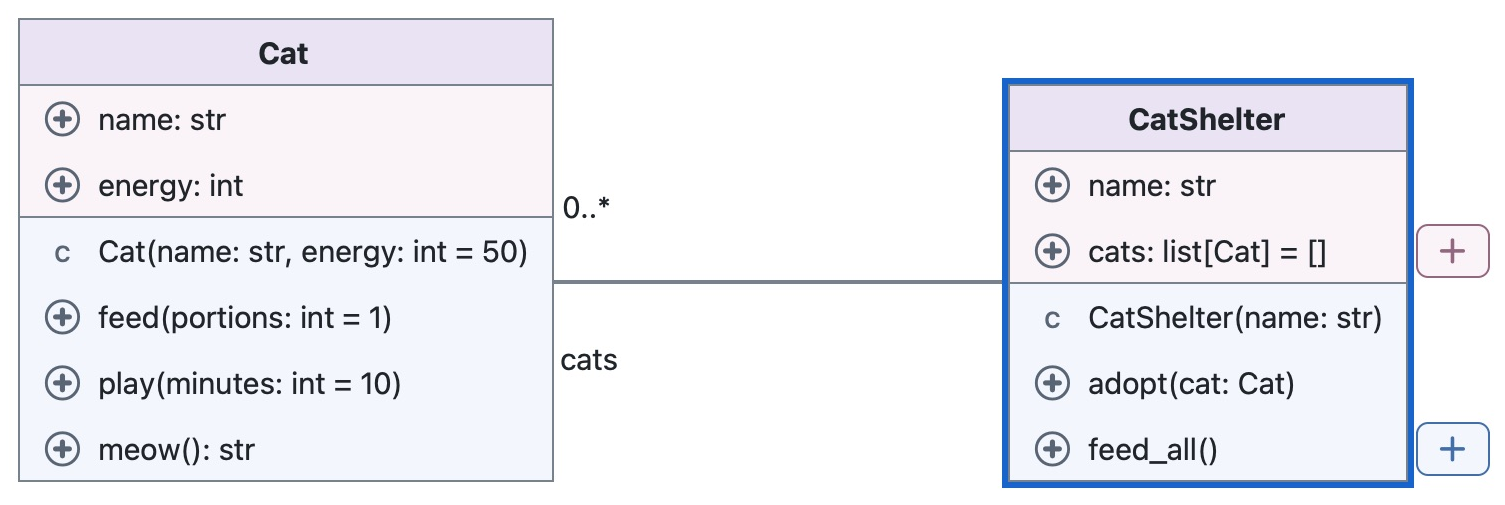
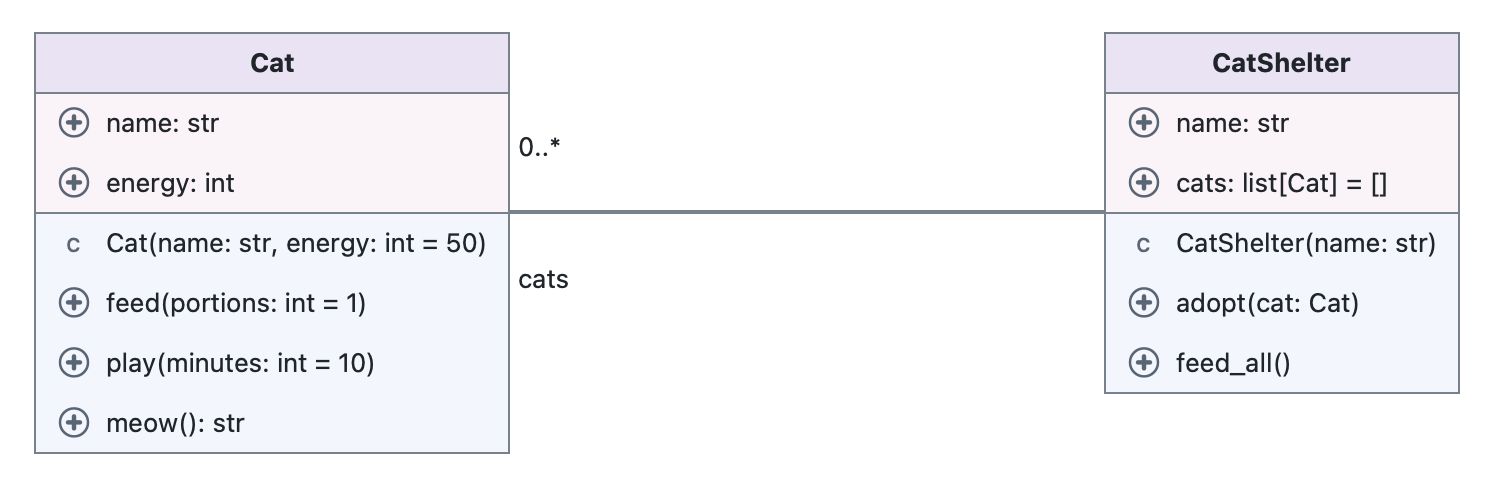
Update manuals with theme-aware screenshots

Changed region(s): [[0.0, 0.031, 1.0, 0.9917], [0.0, 0.7128, 0.2775, 0.8058], [0.0, 0.5888, 0.2775, 0.6818]]

diff --git a/MANUAL.de.md b/MANUAL.de.md
@@ -8,7 +8,7 @@ Was möchtest du machen? Springe zur passenden Aufgabe. Die Bilder zeigen die en
 
 | Bereich | Ich möchte … |
 | --- | --- |
-| Einstieg | [ein Diagramm öffnen](#ein-diagramm-anlegen) · [etwas bearbeiten](#etwas-bearbeiten) · [speichern oder zoomen](#speichern-und-den-überblick-behalten) · [ein Bild exportieren](#ein-diagramm-als-bild-exportieren) |
+| Einstieg | [ein Diagramm öffnen](#ein-diagramm-anlegen) · [etwas bearbeiten](#etwas-bearbeiten) · [speichern oder zoomen](#speichern-und-den-überblick-behalten) · [die Darstellung wechseln](#helle-oder-dunkle-darstellung-wählen) · [ein Bild exportieren](#ein-diagramm-als-bild-exportieren) |
 | Struktogramme | [einen Ablauf aufbauen](#einen-ablauf-aufbauen) · [mehr Bausteine anzeigen](#zwischen-einfacher-und-erweiterter-palette-wechseln) · [Python übertragen](#struktogramm-und-python-ineinander-übertragen) |
 | UML | [Klassen anlegen](#klassen-und-beziehungen-anlegen) · [Attribute und Methoden bearbeiten](#attribute-methoden-und-parameter-bearbeiten) · [das Raster nutzen](#klassen-am-raster-ausrichten) |
 | Objektbank | [ein Objekt erzeugen](#ein-objekt-erzeugen) · [Werte und Methoden ausprobieren](#werte-ansehen-und-methoden-aufrufen) · [nach Änderungen neu starten](#nach-einer-änderung-neu-starten) |
@@ -32,17 +32,27 @@ Speichere dein Diagramm wie andere Dokumente in Thonny. Mit Rückgängig nimmst 
 
 Nutze den Zoomregler oder <kbd>Strg</kbd> + Mausrad, auf dem Mac <kbd>Command</kbd> + Mausrad. So zoomst du an der Stelle unter dem Mauszeiger. Große Diagramme kannst du horizontal und vertikal scrollen.
 
+### Helle oder dunkle Darstellung wählen
+
+Öffne `Werkzeuge → Optionen → Thonny SE` und wähle unter `Darstellung` zwischen `Hell` und `Dunkel`. Beiden Einstellungen kannst du ein Thonny-Oberflächen- und ein Syntax-Theme zuordnen. Beim Bestätigen wechseln Thonny und die Diagrammansichten. `Monochrom` ist in beiden Darstellungen direkt im Diagrammeditor verfügbar.
+
 ### Ein Diagramm als Bild exportieren
 
 Klicke oben auf `PNG`, `SVG` oder `WebP`. Alternativ findest du unter `Datei → Grafik exportieren als …` dieselbe Auswahl. Das funktioniert für beide Diagrammarten gleich.
 
-<img src="images/manual/export-buttons.png" alt="Schaltflächen PNG, SVG und WebP" width="370">
+<picture>
+  <source media="(prefers-color-scheme: dark)" srcset="images/manual/export-buttons-dark.png">
+  <img src="images/manual/export-buttons.png" alt="Schaltflächen PNG, SVG und WebP" width="370">
+</picture>
 
 *Hier wählst du das Bildformat.*
 
-Bei PNG und WebP stellst du anschließend die Bildgröße ein. Wähle bei Bedarf Transparenz oder monochrome Ausgabe. Bestätige mit `OK` und wähle den Speicherort.
+Bei PNG und WebP stellst du die Bildgröße ein. Einen transparenten Hintergrund kannst du in allen drei Formaten wählen. Mit `Monochrom` kannst du auch die Flächen von Bausteinen und Klassenkarten transparent machen. Bei ausgeschaltetem `Monochrom` wählst du für die Ausgabedatei `Hell` oder `Dunkel`. Diese Einstellungen sind unabhängig von der Diagrammansicht. Bestätige mit `OK` und wähle den Speicherort.
 
-<img src="images/manual/export.png" alt="Grafikexport mit Größe, Transparenz und monochromer Ausgabe" width="300">
+<picture>
+  <source media="(prefers-color-scheme: dark)" srcset="images/manual/export-dark.png">
+  <img src="images/manual/export.png" alt="PNG-Export mit Bildgröße, Transparenz, Monochrom und Darstellung" width="300">
+</picture>
 
 *Die Größe wird in Pixeln angegeben. Die Optionen gelten für den Export.*
 
@@ -54,7 +64,10 @@ Wähle einen Baustein aus der Palette links. Füge ihn an der gewünschten Stell
 
 Text ändern? Doppelklick auf den Baustein. Verschieben oder weitere Aktionen? Ziehen beziehungsweise Rechtsklick auf den Baustein.
 
-<img src="images/manual/structogram.png" alt="Bausteinpalette neben einer Schleife mit Verzweigung" width="900">
+<picture>
+  <source media="(prefers-color-scheme: dark)" srcset="images/manual/structogram-dark.png">
+  <img src="images/manual/structogram.png" alt="Bausteinpalette neben einer Schleife mit Verzweigung" width="900">
+</picture>
 
 *Links findest du die Bausteine. Die Einfügeflächen im Diagramm zeigen dir, wo weitere Bausteine Platz haben.*
 
@@ -62,7 +75,10 @@ Text ändern? Doppelklick auf den Baustein. Verschieben oder weitere Aktionen? Z
 
 Nutze den Pfeil am unteren Rand der Palette. Die einfache Palette bietet eine reduzierte Auswahl. Aufgeklappt stehen dir weitere Bausteine zur Verfügung. Dein Entwurf bleibt beim Wechsel erhalten.
 
-<img src="images/manual/palette-switch.png" alt="Pfeil unter der erweiterten Bausteinpalette" width="250">
+<picture>
+  <source media="(prefers-color-scheme: dark)" srcset="images/manual/palette-switch-dark.png">
+  <img src="images/manual/palette-switch.png" alt="Pfeil unter der erweiterten Bausteinpalette" width="250">
+</picture>
 
 *Der Pfeil klappt die zusätzlichen Bausteine auf oder zu.*
 
@@ -82,7 +98,10 @@ Klicke auf die freie Fläche mit rechts und lege eine `Neue Klasse` an. Attribut
 
 Über das Kontextmenü einer Klasse ergänzt du Beziehungen. Wähle die passende Beziehungsart und die beteiligte Klasse. Rollen und Kardinalitäten/Multiplizitäten beschreiben die Verbindung genauer. Kommentare kannst du über das Kontextmenü ergänzen.
 
-<img src="images/manual/classes.png" alt="Klassen Cat und CatShelter mit Attributen, Methoden und Beziehung" width="800">
+<picture>
+  <source media="(prefers-color-scheme: dark)" srcset="images/manual/classes-dark.png">
+  <img src="images/manual/classes.png" alt="Klassen Cat und CatShelter mit Attributen, Methoden und Beziehung" width="800">
+</picture>
 
 *`CatShelter` hält eine Sammlung von `Cat`-Objekten. Die Beziehung trägt den Rollennamen `cats` und die Kardinalität/Multiplizität `0..*`.*
 
@@ -92,7 +111,12 @@ Klicke auf die freie Fläche mit rechts und lege eine `Neue Klasse` an. Attribut
 
 Bei einer Methode hat jeder Parameter eine eigene Zeile. Bestätige deine Bearbeitung mit dem Häkchen. Mit <kbd>Esc</kbd> brichst du sie ab.
 
-<img src="images/manual/edit-method.png" alt="Geöffnete Methodenbearbeitung mit drei Parameterzeilen" width="900">
+Thonny SE kann beim Auswählen eines Attributtyps einen passenden Startwert vorschlagen. Außerdem kann es prüfen, ob Startwerte und Parameter-Standardwerte zu den angegebenen Typen passen. Ungültige Werte werden rot markiert und blockieren die Übernahme. Beide Einstellungen findest du in den Optionen von Thonny SE im Bereich für den UML-Editor.
+
+<picture>
+  <source media="(prefers-color-scheme: dark)" srcset="images/manual/edit-method-dark.png">
+  <img src="images/manual/edit-method.png" alt="Geöffnete Methodenbearbeitung mit drei Parameterzeilen" width="900">
+</picture>
 
 *Hier wird `feed` mit `portions`, `food` und `fresh_water` bearbeitet. Typen und Standardwerte stehen direkt neben den Parametern.*
 
@@ -100,7 +124,10 @@ Bei einer Methode hat jeder Parameter eine eigene Zeile. Bestätige deine Bearbe
 
 Wähle unten im UML-Editor den gewünschten Rastermodus. Ein sichtbares Raster hilft beim Ausrichten. Das magnetische Raster lässt Klassen beim Verschieben einrasten. Ohne Raster kannst du sie frei platzieren.
 
-<img src="images/manual/grid-zoom.png" alt="Rasterauswahl, monochrome Ansicht und Zoom unten im UML-Editor" width="760">
+<picture>
+  <source media="(prefers-color-scheme: dark)" srcset="images/manual/grid-zoom-dark.png">
+  <img src="images/manual/grid-zoom.png" alt="Rasterauswahl, monochrome Ansicht und Zoom unten im UML-Editor" width="760">
+</picture>
 
 *Unten im UML-Editor wählst du das Raster. Rechts daneben findest du den Zoom.*
 
@@ -123,7 +150,10 @@ Die Objektkarte zeigt dir Namen, Klasse und Attributwerte. Wähle eine Methode, 
 
 Klappe den Pfeil vor einer Sammlung oder einem Unterobjekt auf, um weiter hineinzuschauen. Je nach Einstellung erscheinen Methoden als Auswahlliste oder einzelne Schaltflächen.
 
-<img src="images/manual/objects.png" alt="Objektkarten von Luna, Milo und einem Katzenheim" width="340">
+<picture>
+  <source media="(prefers-color-scheme: dark)" srcset="images/manual/objects-dark.png">
+  <img src="images/manual/objects.png" alt="Objektkarten von Luna, Milo und einem Katzenheim" width="340">
+</picture>
 
 *Luna und Milo sind zwei `Cat`-Objekte mit unterschiedlichen Energiewerten. In `shelter` kannst du die Sammlung `cats` aufklappen.*
 
@@ -145,21 +175,27 @@ Vom Code zum Modell: Übernimm Klassen aus dem aktuellen Python-Editor oder übe
 
 Ein Diagramm muss nicht genau einer Python-Datei entsprechen. Mehrere Klassen können gemeinsam in einer Datei stehen. Sie können auch auf mehrere Dateien verteilt sein und trotzdem im selben Diagramm erscheinen.
 
-<img src="images/manual/one-file.png" alt="Python-Datei cat_shelter.py mit den Klassen Cat und CatShelter" width="800">
+<picture>
+  <source media="(prefers-color-scheme: dark)" srcset="images/manual/one-file-dark.png">
+  <img src="images/manual/one-file.png" alt="Python-Datei cat_shelter.py mit den Klassen Cat und CatShelter" width="800">
+</picture>
 
 *Hier stehen beide Klassen in `cat_shelter.py`. Du kannst sie gemeinsam im Diagramm zeigen.*
 
 Die Quellenzuordnung hält für jede verknüpfte Klasse fest, wo ihr Code liegt. Bei mehreren Dateien behält jede Klasse ihre eigene Zuordnung. Über `Zur Stelle im Code` springst du zur passenden Definition.
 
-Speichere Diagramm und zugehörige Python-Dateien, damit du später mit demselben Stand weiterarbeiten kannst.
+Speichere Diagramm und zugehörige Python-Dateien, damit du später mit demselben Stand weiterarbeiten kannst. Wurde eine verknüpfte Datei verschoben oder umbenannt, erscheint beim Abgleich ein Hinweis. Über `Python-Quelldatei neu zuordnen …` wählst du sie erneut aus.
 
 ### Änderungen abgleichen
 
 Starte im Kontextmenü den Abgleich `aus Code` oder `in den Code` für die gewünschte Klasse oder das Diagramm. Die Vorschau zeigt Quelle und Ziel.
 
-Wähle die Änderungen aus, die du übernehmen möchtest. Kläre angezeigte Konflikte und bestätige mit `OK`. Bei mehreren Dateien sind die Änderungen nach ihren Zieldateien gruppiert. Vorhandene Methodenimplementierungen bleiben beim Aktualisieren der Signaturen erhalten.
+Wähle die Änderungen aus, die du übernehmen möchtest. Kläre angezeigte Konflikte und bestätige mit `OK`. Sind mehrere Dateien beteiligt, gruppiert die Vorschau die Änderungen nach Python-Datei. Vorhandene Methodenimplementierungen bleiben beim Aktualisieren der Signaturen erhalten.
 
-<img src="images/manual/apply-changes.png" alt="Änderungsvorschau von Python-Code zu UML mit auswählbaren Änderungen" width="800">
+<picture>
+  <source media="(prefers-color-scheme: dark)" srcset="images/manual/apply-changes-dark.png">
+  <img src="images/manual/apply-changes.png" alt="Änderungsvorschau von Python-Code zu UML mit auswählbaren Änderungen" width="800">
+</picture>
 
 *Links steht der eingelesene Code, rechts das bisherige Diagramm. Die Häkchen wählen aus, welche Änderungen übernommen werden.*
 
